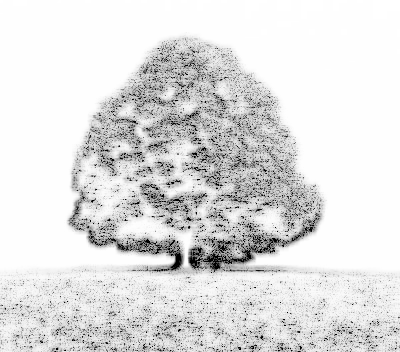
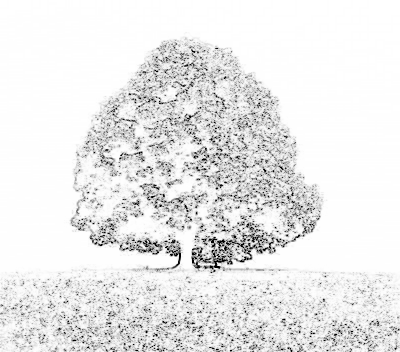
rangement

diff --git a/src/main.py b/src/main.py
@@ -1,6 +1,4 @@
 import multiprocessing
-import os
-from copy import deepcopy
 from multiprocessing import Queue
 
 import imageio
@@ -9,7 +7,7 @@ from definitionIntensite.Intensite import Partie
 
 if __name__ == '__main__':
     print("debut du programme")
-    im = imageio.imread('chargementImage/arbre.jpg', format='jpg')
+    im = imageio.imread('chargementImage/couleur.png', format='png')
     info = im.shape
     h = info[0]
     w = info[1]
@@ -45,7 +43,7 @@ if __name__ == '__main__':
     print("ecriture de l'image ")
     for y in range(h):
         for x in range(w):
-            contraste = 1/10
+            contraste = 5
             noir = 255 - (imIntensite[y][x] * contraste)
             if noir > 255:
                 noir = 255
@@ -55,4 +53,4 @@ if __name__ == '__main__':
             im[y][x][0] = noir
             im[y][x][1] = noir
             im[y][x][2] = noir
-    imageio.imsave('chargementImage/arbre.png', im, format='png')
+    imageio.imsave('chargementImage/couleurOUT.png', im, format='png')

diff --git a/src/definitionIntensite/Intensite.py b/src/definitionIntensite/Intensite.py
@@ -23,7 +23,7 @@ class Partie(Process):
         for y in range(self.minY, self.maxY):
             for x in range(self.w):
 
-                rayonVoisinageStatic = 10
+                rayonVoisinageStatic = 5
                 p = self.im[y][x]
                 somme = 0
                 n = 0

diff --git a/README.md b/README.md
@@ -4,15 +4,23 @@ objectif: générer une heatMap des changement au seins d'une image
  - Langage utilisé : Python 
  - Résultat attendu : heatMap des points d'interet.
  
-#installation des dépendances pip (cocher la case "installer pip" à l'installation de python)
-
+# Comment l'utiliser
+##installation des dépendances pip (cocher la case "installer pip" à l'installation de python)
  - pip install imageio
 
+## Parametres
+ - image entrée: ligne 10 dans main.py
+ - image de sortie: ligne 56 dans main.py
+ - definition de la fenêtre: ligne 26 dans Intensite.py 
+   la variable rayonVoisinageStatic correspond à rayon autour du pixels qui sera considèré comme étant dans la fenêtre.
 
-## Créateurs du projet
+##résolution de problèmes
+ - les contours sont affiché mais n'apparaissent que très faiblement. <br>
+    **solution:** augmenter la valeur du contraste ligne 46 de main.py
+# Créateurs du projet
 3 étudiants de 2A DUT informatique :
-- [***HOLAY Jérémy***]()
-- [***CHARLOT Valentin***]()
+- **HOLAY Jérémy**
+- **CHARLOT Valentin**
 - [***RIVAT Matthis***](https://github.com/MattRvt)
 
 ## FAIT A  
